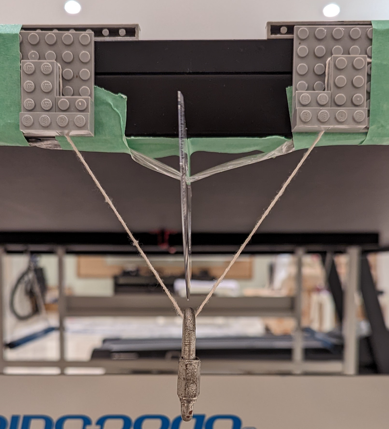
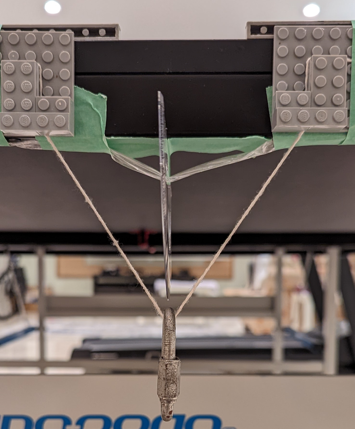
5.1

diff --git a/report/lab.tex b/report/lab.tex
@@ -7,6 +7,8 @@
 \usepackage{amsmath}
 \usepackage{amssymb}
 \usepackage[format=plain, labelfont=it, font=footnotesize, labelsep=period]{caption}
+\usepackage{caption}
+\usepackage{subcaption}
 
 \addbibresource{references.bib}
 
@@ -100,7 +102,10 @@ experimentally zero
 concluse that period depends on release angle
 
 comment on the r sq value alongside the residuals
+
+write out the actual uncertianty values for t0, b, c
 }
+
 According to Section \ref{Background}, if $-20^{\circ} \lesssim \theta \lesssim 20^{\circ}$, then a linear line of best fit would be expected, which matches the trends generated by the graph.
 
 Since the data collected contained angles ranging from $ 80^{\circ} \leq \theta \leq 80^{\circ}$, a quadratic power series fit modelled by the equation:
@@ -111,7 +116,9 @@ where $T_0$ represents the period, $\theta_0$ the release angle and $B$ and $C$ 
 
 Lastly, the residuals shown on the graph do not suggest much asymmetry regarding the pendulum as the negative release angles appear symmetrical when compared to positive release angles. However, a single-stringed pendulum tends to spin in an elliptical fashion when released, affecting accurate measurements.
 
-\section{Finding the Q Factor}
+\newpage
+
+\section{Finding the Q Factor} \label{Finding the Q Factor}
 
 \subsection{Experimental Setup}
 In order to correct for potential asymmetry and elliptical orbit, a degree of freedom was removed from the pendulum by threading a string through the stainless steel quick link and fastening the 2 strings in 2 locations to form the shape of a ``V''. Then pendulum would then swing back and forth in the plane perpendicular to the ``V'', and the tendency for each string to balance out the load prevents it from swinging in any other direction. Additionally, the pendulum was kept the same length as the previous setup (perpendicular distance from threading location to top of desk), and extra precautions were taken to make sure the pendulum was symmetrical along the vertical axis. Below is a setup of what was described above:
@@ -164,17 +171,36 @@ However, Graph \ref{fig:figure 4} can also be used to find the Q factor by count
 
 {\color{blue}
 
-\section{Period and Length}
+\section{Period and Length} \label{Period and Length}
 
 \subsection{Experimental Setup}
+A third version of the pendulum was made to collect data for 9 different lengths ranging from around $10\,$cm to $50\,$cm, as shown below:
 
-this is version 3 of the experimental setup
+\begin{figure}[!hptb]
+    \centering
+    \begin{subfigure}{0.49\textwidth}
+        \centering
+        \includegraphics[width=\textwidth]{../figures/exp_setup3_angle.png}
+    \end{subfigure}
+    \hfill
+    \begin{subfigure}{0.49\textwidth}
+        \centering
+        \includegraphics[width=\textwidth]{../figures/exp_setup3_front.png}
+    \end{subfigure}
+    \caption{Side and front view of version 3 of the pendulum}
+    \label{fig:figure 5}
+\end{figure}
+
+The setup used here doesn't deviate much from the one used in Section \ref{Finding the Q Factor}, other than the fact that a real protractor was used in place of Tracker's virtual one, lego was used to prevent the potential risk of the string slipping under the tape and the angle formed by the "V" shape was kept to be around $60^\circ$ for all lengths recorded. The last point is especially important so that any dependent variable under investigation can only depend on one independent variable, the length of the pendulum.
 
 \subsection{Data}
 
 \subsection{Analysis}
 
 \section{Q Factor and Length}
+The same setup from Section \ref{Period and Length} was used to calculate the Q factors.
+
+Q factors were calculated using the python program because the counting method is inaccurate in general
 
 \subsection{Data}
 
